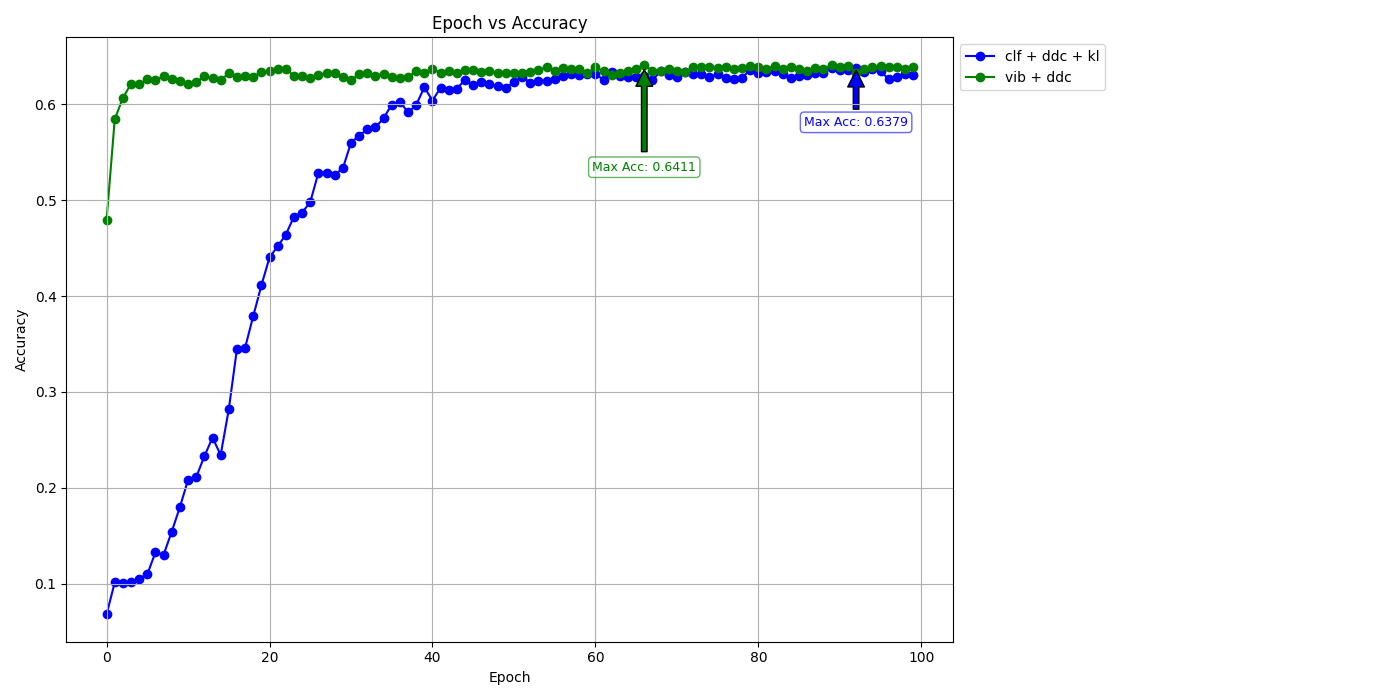
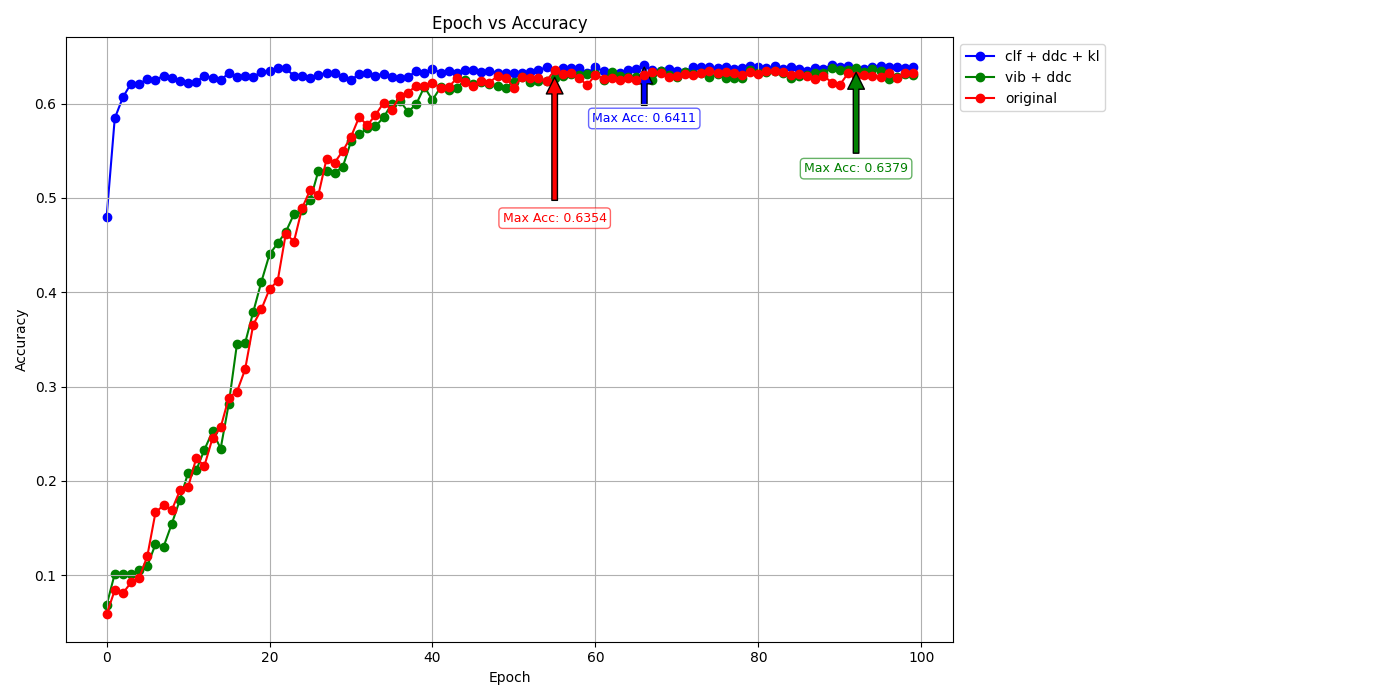
meetingsmay23

diff --git a/vib/visualiztion.py b/vib/visualiztion.py
@@ -51,7 +51,7 @@ def parse_and_plot(filepaths, labels, output_filepath):
     plt.tight_layout(rect=[0, 0, 0.8, 1])
     plt.savefig(output_filepath, format='png')
     plt.close()
-input_filepaths = ['res/ddc_kl_bottleneck.txt', 'res/test1.txt', 'res/ddc_original.txt']
-labels = ['clf + ddc + kl', 'vib + ddc', 'original']
+input_filepaths = ['res/test1.txt', 'res/ddc_kl_bottleneck.txt', 'res/ddc_original.txt']
+labels = ['viib', 'vib + ddc', 'original']
 output_filepath = 'webcam_to_amazonMay21.png'
 parse_and_plot(input_filepaths, labels, output_filepath)
